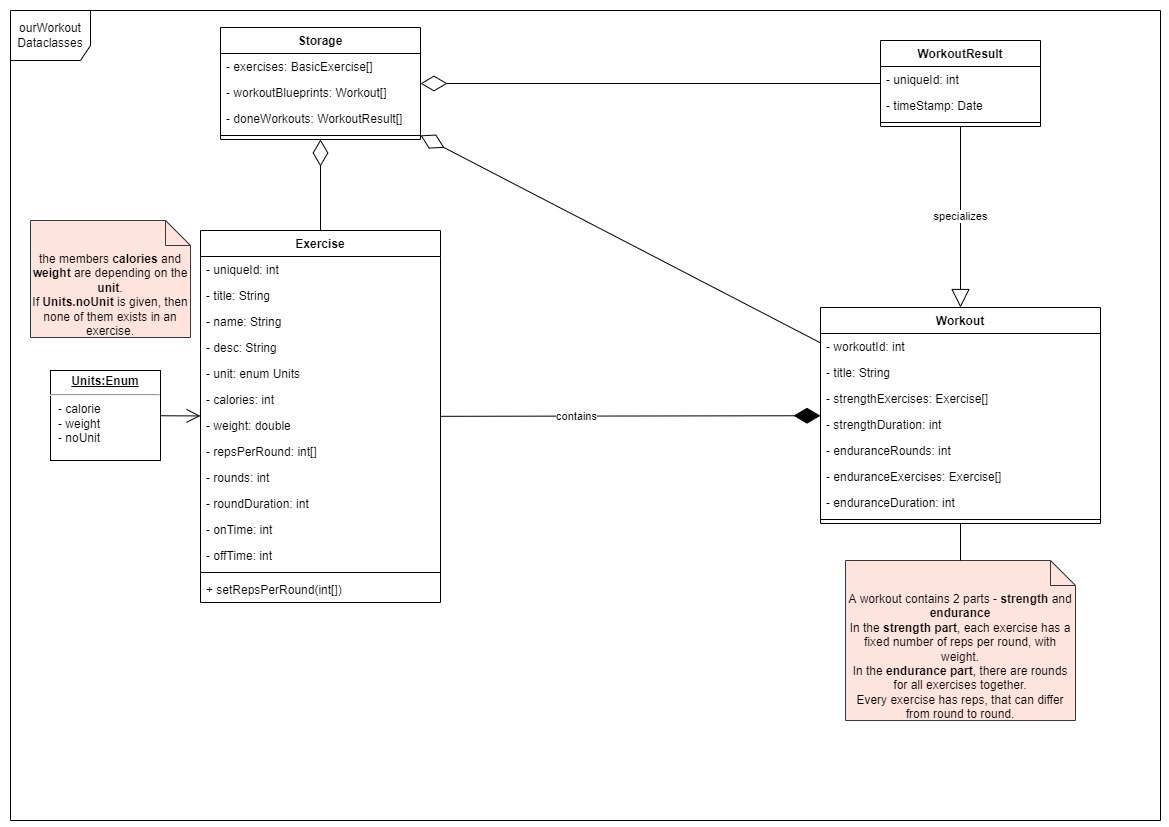
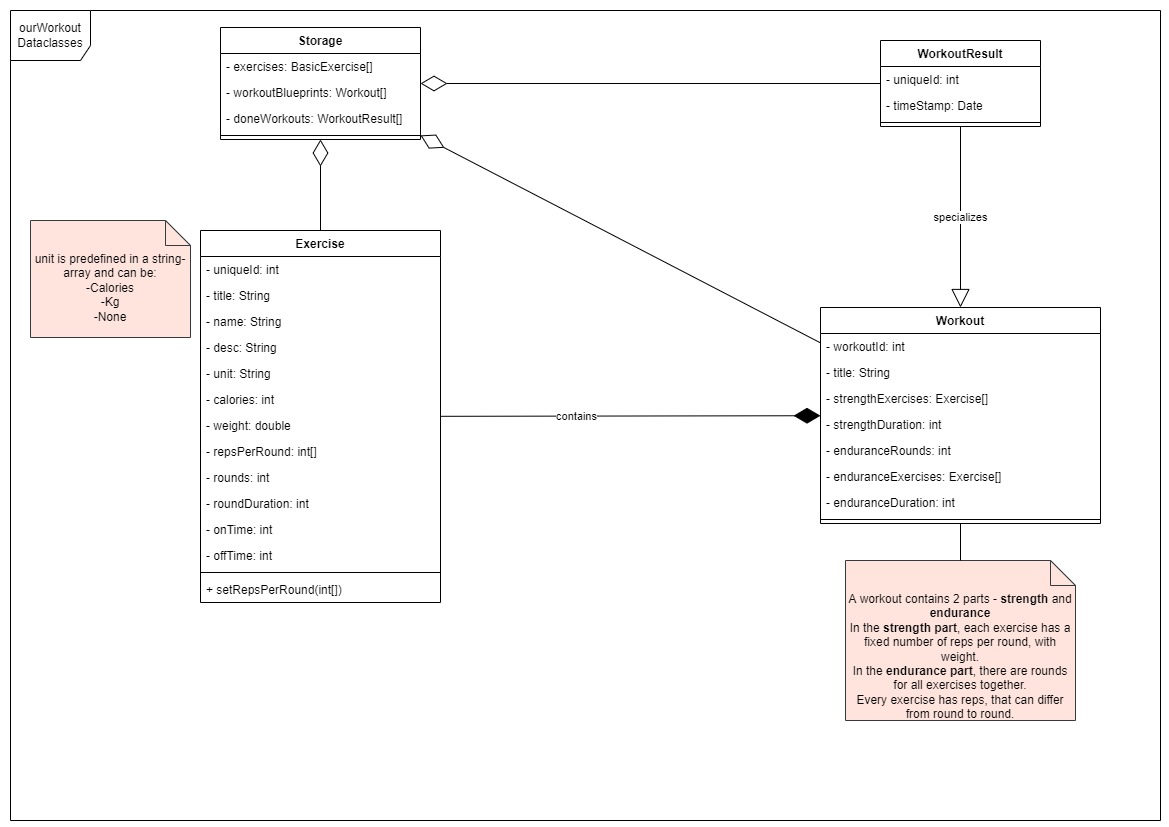
Finish ExerciseActivity with according layout -Add spinner to choose a unit -Adapt adapter and some resource names -Change dataClass model to work without enums -Edit store classes to store new members

diff --git a/app/src/main/java/org/vollol/ourworkout/activities/ExerciseActivity.kt b/app/src/main/java/org/vollol/ourworkout/activities/ExerciseActivity.kt
@@ -4,13 +4,18 @@ import androidx.appcompat.app.AppCompatActivity
 import android.os.Bundle
 import android.view.Menu
 import android.view.MenuItem
+import android.view.View
+import android.widget.AdapterView
+import android.widget.ArrayAdapter
+import android.widget.Spinner
 import com.google.android.material.snackbar.Snackbar
 import org.vollol.ourworkout.R
 import org.vollol.ourworkout.databinding.ActivityExerciseBinding
 import org.vollol.ourworkout.main.MainApp
 import org.vollol.ourworkout.models.Exercise
+import timber.log.Timber.i
 
-class ExerciseActivity : AppCompatActivity() {
+class ExerciseActivity : AppCompatActivity(){
 
     /* ActivityExerciseBinding - this is an auto generated class, which allows to have access on all
     *  content defined in the according layout description (.xml-file)
@@ -37,19 +42,48 @@ class ExerciseActivity : AppCompatActivity() {
         //initialize app from instantiated MainApp-Class
         app = application as MainApp
 
+        /***********************************spinner********************************************/
+        val spinner = findViewById<Spinner>(R.id.exerciseUnit)
+        //ArrayAdapter, which shows strings out of a string-array
+        val items = resources.getStringArray(R.array.exercise_activity_units)
+        val adapter = ArrayAdapter(this, android.R.layout.simple_spinner_item, items)
+        //Set dropdown-layout for the spinner
+        adapter.setDropDownViewResource(android.R.layout.simple_spinner_dropdown_item)
+        //set adapter for the spinner
+        spinner.adapter = adapter
+
+        spinner.onItemSelectedListener = object : AdapterView.OnItemSelectedListener {
+            override fun onItemSelected(parent: AdapterView<*>?, view: View?, position: Int, id: Long) {
+                val item = parent?.getItemAtPosition(position).toString()
+                i("Spinner: $item")
+                exercise.unit = item
+            }
+
+            override fun onNothingSelected(parent: AdapterView<*>?) {
+                // is called, if nothing is selected - e.g. at the start
+            }
+        }
+        /*********************************spinner-end******************************************/
+
         if(intent.hasExtra("exercise_edit")){
             edit = true
             exercise = intent.extras?.getParcelable("exercise_edit")!!
+            //Set already stored values in text-fields
             binding.exerciseTitle.setText(exercise.title)
             binding.exerciseName.setText(exercise.name)
+            binding.exerciseDesc.setText(exercise.desc)
+            //Set already stored values in the spinner
+            val position = adapter.getPosition(exercise.unit)
+            spinner.setSelection(position)
 
             //change text on button to save exercise
-            binding.btnAdd.setText(R.string.button_saveExercise)
+            binding.btnAdd.setText(R.string.exercise_activity_button_saveExercise)
         }
 
         binding.btnAdd.setOnClickListener() {
             exercise.name = binding.exerciseName.text.toString()
             exercise.title = binding.exerciseTitle.text.toString()
+            exercise.desc = binding.exerciseDesc.text.toString()
 
             if (exercise.title.isNotEmpty() and exercise.name.isNotEmpty()) {
                 if (edit) {
@@ -67,11 +101,14 @@ class ExerciseActivity : AppCompatActivity() {
 
             else{
                 Snackbar
-                    .make(it,R.string.snack_infosMissing, Snackbar.LENGTH_LONG)
+                    .make(it,R.string.exercise_activity_snack_infosMissing, Snackbar.LENGTH_LONG)
                     .show()
             }
         }
     }
+
+
+    /******************Menu bar*******************/
 
     override fun onCreateOptionsMenu(menu: Menu): Boolean {
         menuInflater.inflate(R.menu.menu_exercise_activity, menu)

diff --git a/app/src/main/java/org/vollol/ourworkout/models/ExerciseModel.kt b/app/src/main/java/org/vollol/ourworkout/models/ExerciseModel.kt
@@ -8,7 +8,7 @@ data class Exercise(var id: Long = 0,
                     var title: String="",
                     var name: String="",
                     var desc: String="",
-                    var unit: Units = Units.NONE,
+                    var unit: String="",
                     var calories: Int = 0,
                     var weight: Double = 0.0,
                     var repsPerRound: Int = 0,
@@ -16,8 +16,3 @@ data class Exercise(var id: Long = 0,
                     var roundDuration: Int = 0,
                     var onTime: Int = 0,
                     var offTime: Int = 0) : Parcelable
-{
-    enum class Units{
-        CAL, KG, NONE
-    }
-}

diff --git a/app/src/main/java/org/vollol/ourworkout/adapters/ExerciseAdapter.kt b/app/src/main/java/org/vollol/ourworkout/adapters/ExerciseAdapter.kt
@@ -36,7 +36,8 @@ class ExerciseAdapter constructor(private var exersices: List<Exercise>,
 
         fun bind(exercise: Exercise, listener: ExerciseListener){
             binding.exerciseTitle.text = exercise.title
-            binding.exerciseName.text = exercise.name
+            binding.exerciseDesc.text = exercise.desc
+            binding.exerciseUnit.text = exercise.unit
             binding.root.setOnClickListener {listener.onExerciseClick(exercise, adapterPosition)}
         }
     }

diff --git a/app/src/main/java/org/vollol/ourworkout/models/ExerciseJSONStore.kt b/app/src/main/java/org/vollol/ourworkout/models/ExerciseJSONStore.kt
@@ -48,6 +48,8 @@ class ExerciseJSONStore(private val context: Context) :ExerciseStore{
         if (foundExercise != null) {
             foundExercise.title = exercise.title
             foundExercise.name = exercise.name
+            foundExercise.desc = exercise.desc
+            foundExercise.unit = exercise.unit
         }
         serialize()
     }

diff --git a/app/src/main/java/org/vollol/ourworkout/models/ExerciseMemStore.kt b/app/src/main/java/org/vollol/ourworkout/models/ExerciseMemStore.kt
@@ -26,6 +26,8 @@ class ExerciseMemStore : ExerciseStore {
         if (foundExercise != null) {
             foundExercise.title = exercise.title
             foundExercise.name = exercise.name
+            foundExercise.desc = exercise.desc
+            foundExercise.unit = exercise.unit
             logAll()
         }
     }
